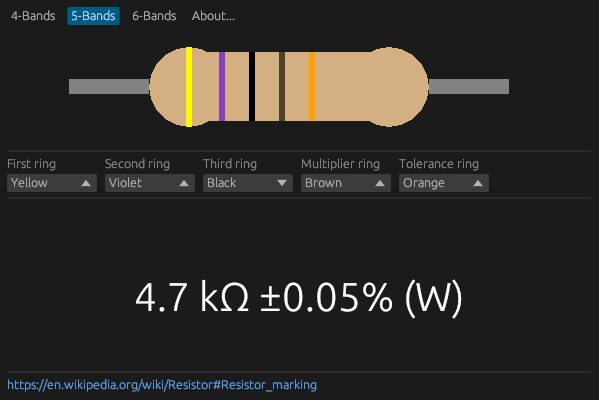
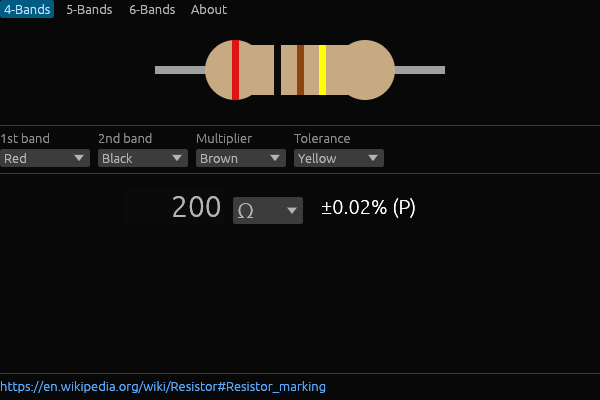
updated screenshot and README.md

diff --git a/README.md b/README.md
@@ -1,13 +1,32 @@
 ## Resistor
-Resistor color code calculator written in Rust using [egui](https://www.egui.rs/) and [macroquad](https://macroquad.rs/) libraries.
 
-It can be compiled in [WebAssembly](https://en.wikipedia.org/wiki/WebAssembly) format and run from the web browser directly on any platform.
+Resistor color code calculator written in Rust using [eframe/egui](https://www.egui.rs/).
 
-## Screenshot
+Supports 4-band, 5-band, and 6-band resistors with bidirectional calculation — select color bands to see the resistance value, or enter a resistance value to see the corresponding color bands.
+
+### Features
+
+- 4-band, 5-band, and 6-band resistor modes
+- Visual resistor rendering with color-coded bands
+- Reverse calculation: type a resistance value to determine band colors
+- Unit selector (Ω, kΩ, MΩ, GΩ)
+- Tolerance and temperature coefficient support
+- Persistent configuration (window position, selected bands, and mode are saved between sessions)
+
+### Screenshot
+
 ![screenshot](screenshots/screenshot_1.png)
 
-## Demo
-[Resistor color code calculator](https://games.os.vc/webgames/resistor/)
+### Building
 
-## License
+```sh
+cargo build --release
+```
+
+### Configuration
+
+Settings are stored in `~/.config/resistor/config.json` and are saved automatically when the application is closed.
+
+### License
+
 Resistor color code calculator is free and open-source software released under the MIT License.
